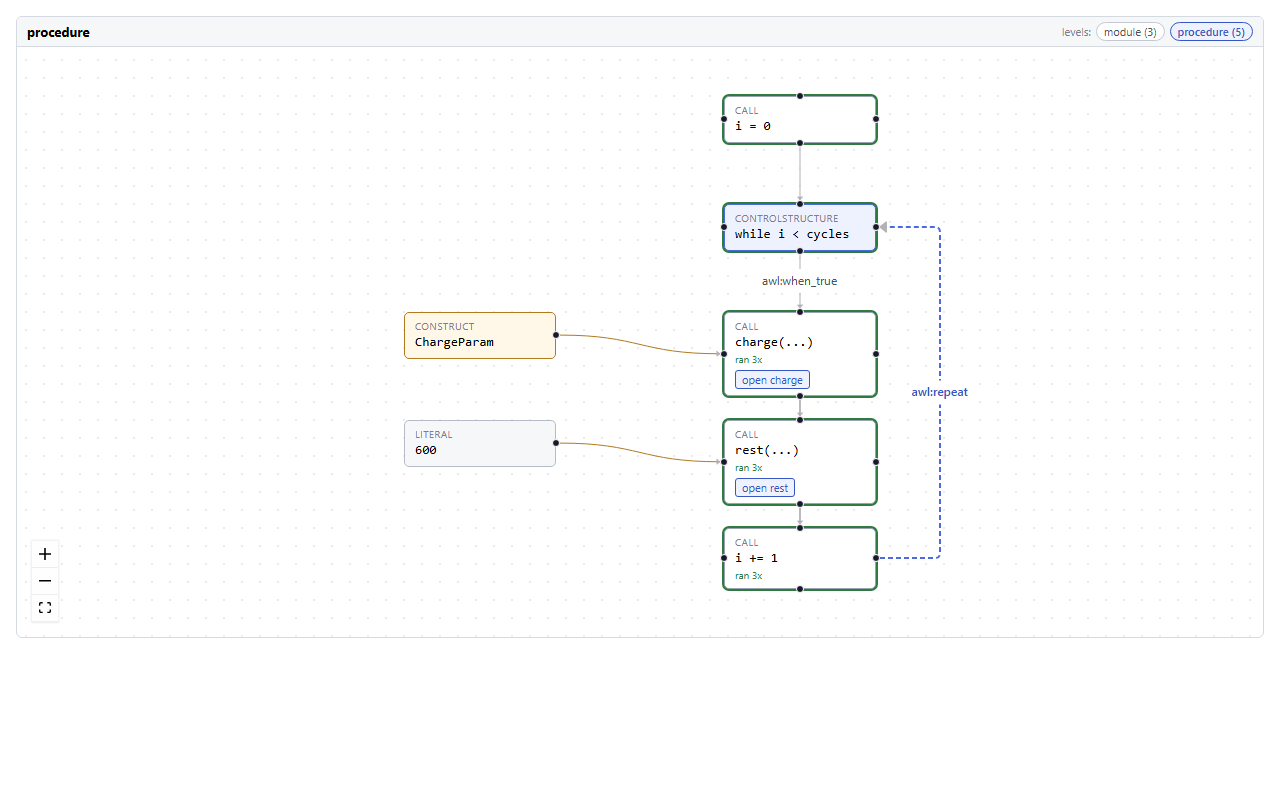
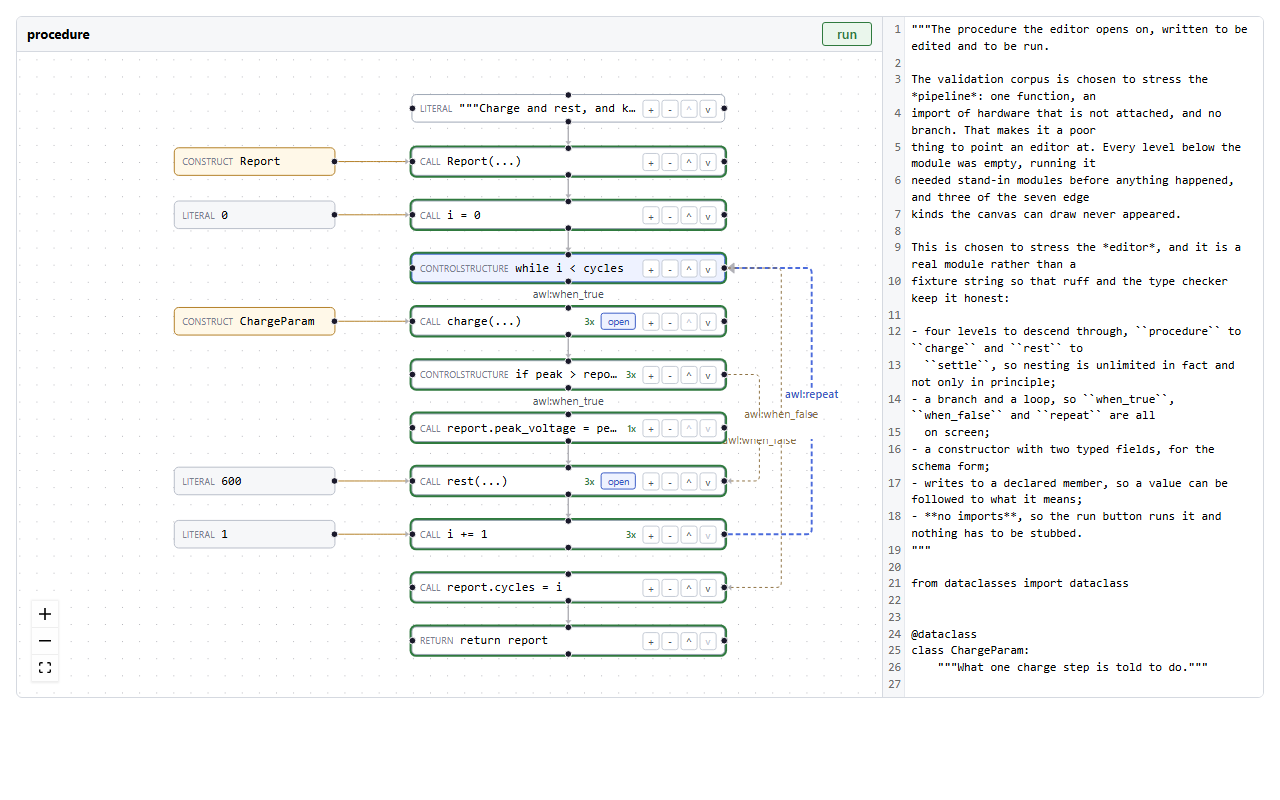
feat(ui): edit a block through the source it covers
- text_at and replace_at read and replace what a node's span covers, and
  reparse like any other source edit
- the escape hatch for what no form reaches: a loop's test, a return
  expression, a bare assignment. A form over an arbitrary expression is a
  Python editor with extra steps
- to_source regenerates rather than refusing when a structural edit is
  pending; comments are dropped and reformats() says so in advance

diff --git a/src/awl/ui/__init__.py b/src/awl/ui/__init__.py
@@ -431,6 +431,52 @@ class EditorModel:
                 return identity["module"], identity["symbol"]
         return None
 
+    def text_at(self, span: list[int]) -> str:
+        """Return the source a span covers.
+
+        Parameters
+        ----------
+        span : list of int
+            ``[start_line, start_col, end_line, end_col]``.
+        """
+        from awl import writeback
+
+        offsets = writeback.offsets(self.source, span)
+        return self.source[offsets["start"] : offsets["end"]]
+
+    def replace_at(self, span: list[int], text: str) -> dict[str, Any]:
+        """Replace what a span covers with *text*, and rebuild.
+
+        Parameters
+        ----------
+        span : list of int
+            ``[start_line, start_col, end_line, end_col]``.
+        text : str
+            What to put there.
+
+        Returns
+        -------
+        dict
+            ``ok`` and the new ``document``, or ``ok: False`` and the parse
+            error, exactly as :meth:`set_source`.
+
+        Notes
+        -----
+        The escape hatch for everything the structured editors cannot reach. A
+        loop's test, a return expression, a bare assignment: these are steps a
+        canvas can draw, delete and move, and there is no form for them,
+        because a form over an arbitrary expression is a Python editor with
+        extra steps.
+
+        Editing the text a node covers is honest about that. It reparses like
+        any other source edit, so a change that does not compile changes
+        nothing, and it costs the file's layout only in the range it replaces.
+        """
+        from awl import writeback
+
+        offsets = writeback.offsets(self.source, span)
+        return self.set_source(self.source[: offsets["start"]] + text + self.source[offsets["end"] :])
+
     def set_value(self, path: list[Any], value: Any) -> dict[str, Any]:
         """Set a value the canvas has selected, and record how to write it back.
 
@@ -530,26 +576,29 @@ class EditorModel:
         its comments. Patching by span touches only what was edited, which is
         the difference between an editor and a code generator.
 
-        Raises
-        ------
-        NotImplementedError
-            If a structural edit is pending. Adding, deleting or moving a
-            statement is not a range of characters, and nothing yet routes one
-            through a concrete-syntax rewrite, so there is no way to apply it
-            without reformatting. :meth:`regenerate` will produce the code and
-            lose the file's comments and layout, which is a choice the caller
-            should make rather than find out about afterwards.
+        A structural edit cannot be spliced: adding, deleting or moving a
+        statement is not a range of characters, and nothing routes one through
+        a concrete-syntax rewrite. When one is pending the whole module is
+        regenerated instead, which **drops its comments and its layout**.
+
+        That loss is accepted for now rather than hidden. :meth:`reformats`
+        says in advance whether the next call will take that path, so a canvas
+        can warn before it happens rather than a reader discovering it in a
+        diff.
         """
         from awl import writeback
 
-        pending = self.structural()
-        if pending:
-            operations = ", ".join(sorted({str(edit.get("operation")) for edit in pending}))
-            raise NotImplementedError(
-                f"{len(pending)} structural edit(s) pending ({operations}); span splicing cannot apply them. "
-                "Use regenerate(), which reformats the file and drops its comments."
-            )
+        if self.reformats():
+            return self.regenerate()
         return writeback.apply_edits(self.source, self.edits) if self.edits else self.source
+
+    def reformats(self) -> bool:
+        """Return whether :meth:`to_source` will regenerate rather than splice.
+
+        True once a structural edit is pending, because the file then has to be
+        rewritten whole and its comments do not survive that.
+        """
+        return bool(self.structural())
 
     def regenerate(self) -> str:
         """Return the document unparsed, ignoring the original formatting."""

diff --git a/tools/live_editor.py b/tools/live_editor.py
@@ -26,8 +26,25 @@ from typing import Any
 
 #: The bridge each variant's harness calls, and the traits it round-trips.
 BRIDGES = {
-    "blockly": ("awlSync", ("level", "palette", "overlay", "source", "error", "loop_mode")),
+    # Every trait the variant's own tests sync. A short list is not a smaller
+    # widget, it is a broken one: leaving out `highlighted` served a blank
+    # source pane, which reads as an unimplemented requirement rather than as
+    # a launcher that forgot to carry it.
+    "blockly": (
+        "awlSync",
+        ("level", "palette", "overlay", "source", "highlighted", "error", "status", "loop_mode"),
+    ),
     "reactflow_jedison": ("awlDispatch", ("selection", "pending_edit", "open_step", "close_to")),
+}
+
+#: What each variant needs before its run button can do anything. Without it
+#: the button renders and says there is no entry point, which reads as a
+#: broken widget rather than as an unconfigured host: the host decides what
+#: running means, because a stand-in for a module that drives hardware is an
+#: object and no JSON channel carries one.
+RUNS = {
+    "blockly": {"entry": "procedure", "arguments": (3,)},
+    "reactflow_jedison": {"run_with": {"entry": "procedure", "arguments": (3,)}},
 }
 
 #: Injected before the harness's own module runs, so the binding exists by the
@@ -76,7 +93,9 @@ def serve(variant: str, root: Path, port: int) -> None:
 
     bridge, traits = BRIDGES[variant]
     widget = next(
-        getattr(module, name)(_model(root), scope="procedure") for name in dir(module) if name.endswith("Editor")
+        getattr(module, name)(_model(root), scope="procedure", **RUNS.get(variant, {}))
+        for name in dir(module)
+        if name.endswith("Editor")
     )
 
     harness = (root / "tests" / "ui" / "harness.html").read_text(encoding="utf-8")

diff --git a/tools/_live_reactflow.py b/tools/_live_reactflow.py
@@ -20,6 +20,9 @@ from typing import Any
 
 ROOT = Path(__file__).resolve().parents[1] / ".claude" / "worktrees" / "agent-a9f5840cbb88abf26"
 
+#: Fixed, so the address survives a restart.
+PORT = 8102
+
 
 def _load(name: str, path: Path) -> Any:
     """Return the module at *path*, loaded under *name*."""
@@ -40,7 +43,21 @@ def main() -> None:
 
     sample = Path(__file__).resolve().parents[1] / "src" / "awl" / "ui" / "sample.py"
     model = ui.load(sample.read_text(encoding="utf-8"), module="awl.ui.sample", file="sample.py")
-    live = harness.Harness(model, scope="procedure")
+    # The harness binds port 0, so it lands somewhere new on every restart and
+    # the URL you were given a minute ago is dead. Pinning the port here rather
+    # than editing the variant: a test wants a free port, a person wants the
+    # same address twice.
+    original = harness._Server
+
+    class _Fixed(original):  # type: ignore[misc, valid-type]
+        def __init__(self, address: tuple[str, int], handler: Any) -> None:
+            super().__init__(("127.0.0.1", PORT), handler)
+
+    harness._Server = _Fixed
+    # Without a runner the button renders and reports no entry point, which
+    # reads as a broken widget. The host supplies it because the host is
+    # what knows how to run the thing.
+    live = harness.Harness(model, scope="procedure", runner=lambda edited: edited.run("procedure", 3))
     print("reactflow:", live.url, flush=True)
     while True:
         time.sleep(3600)
